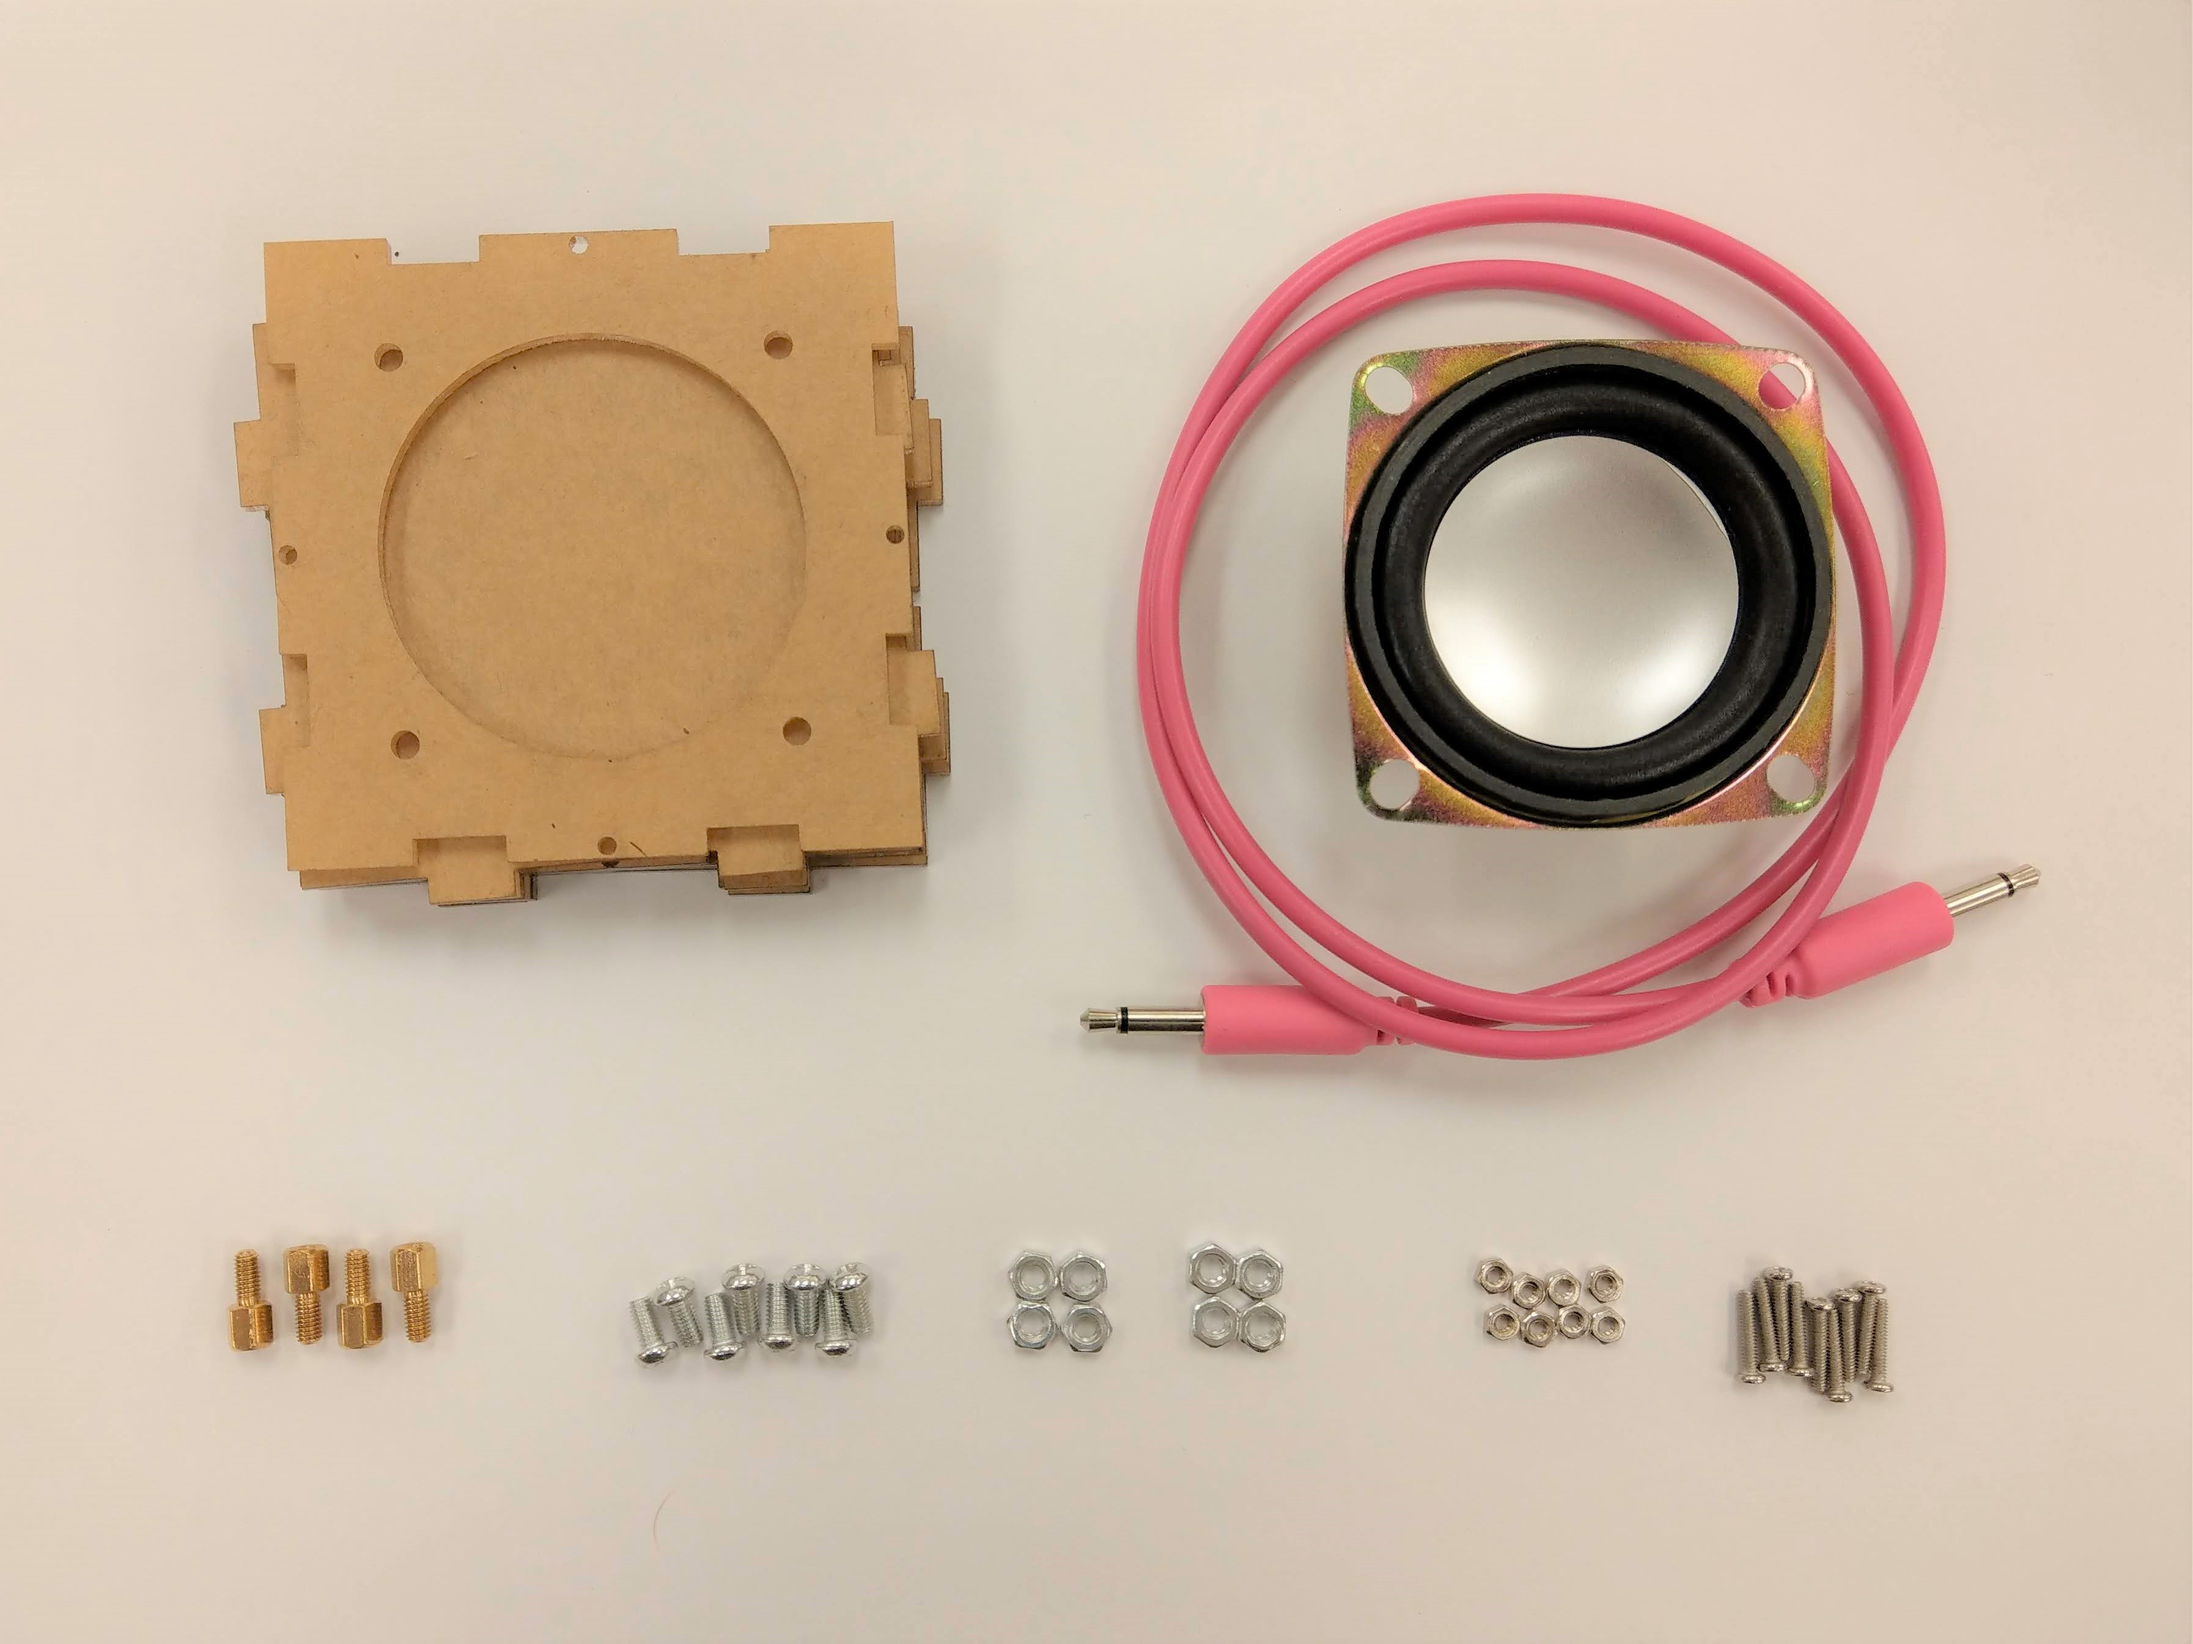
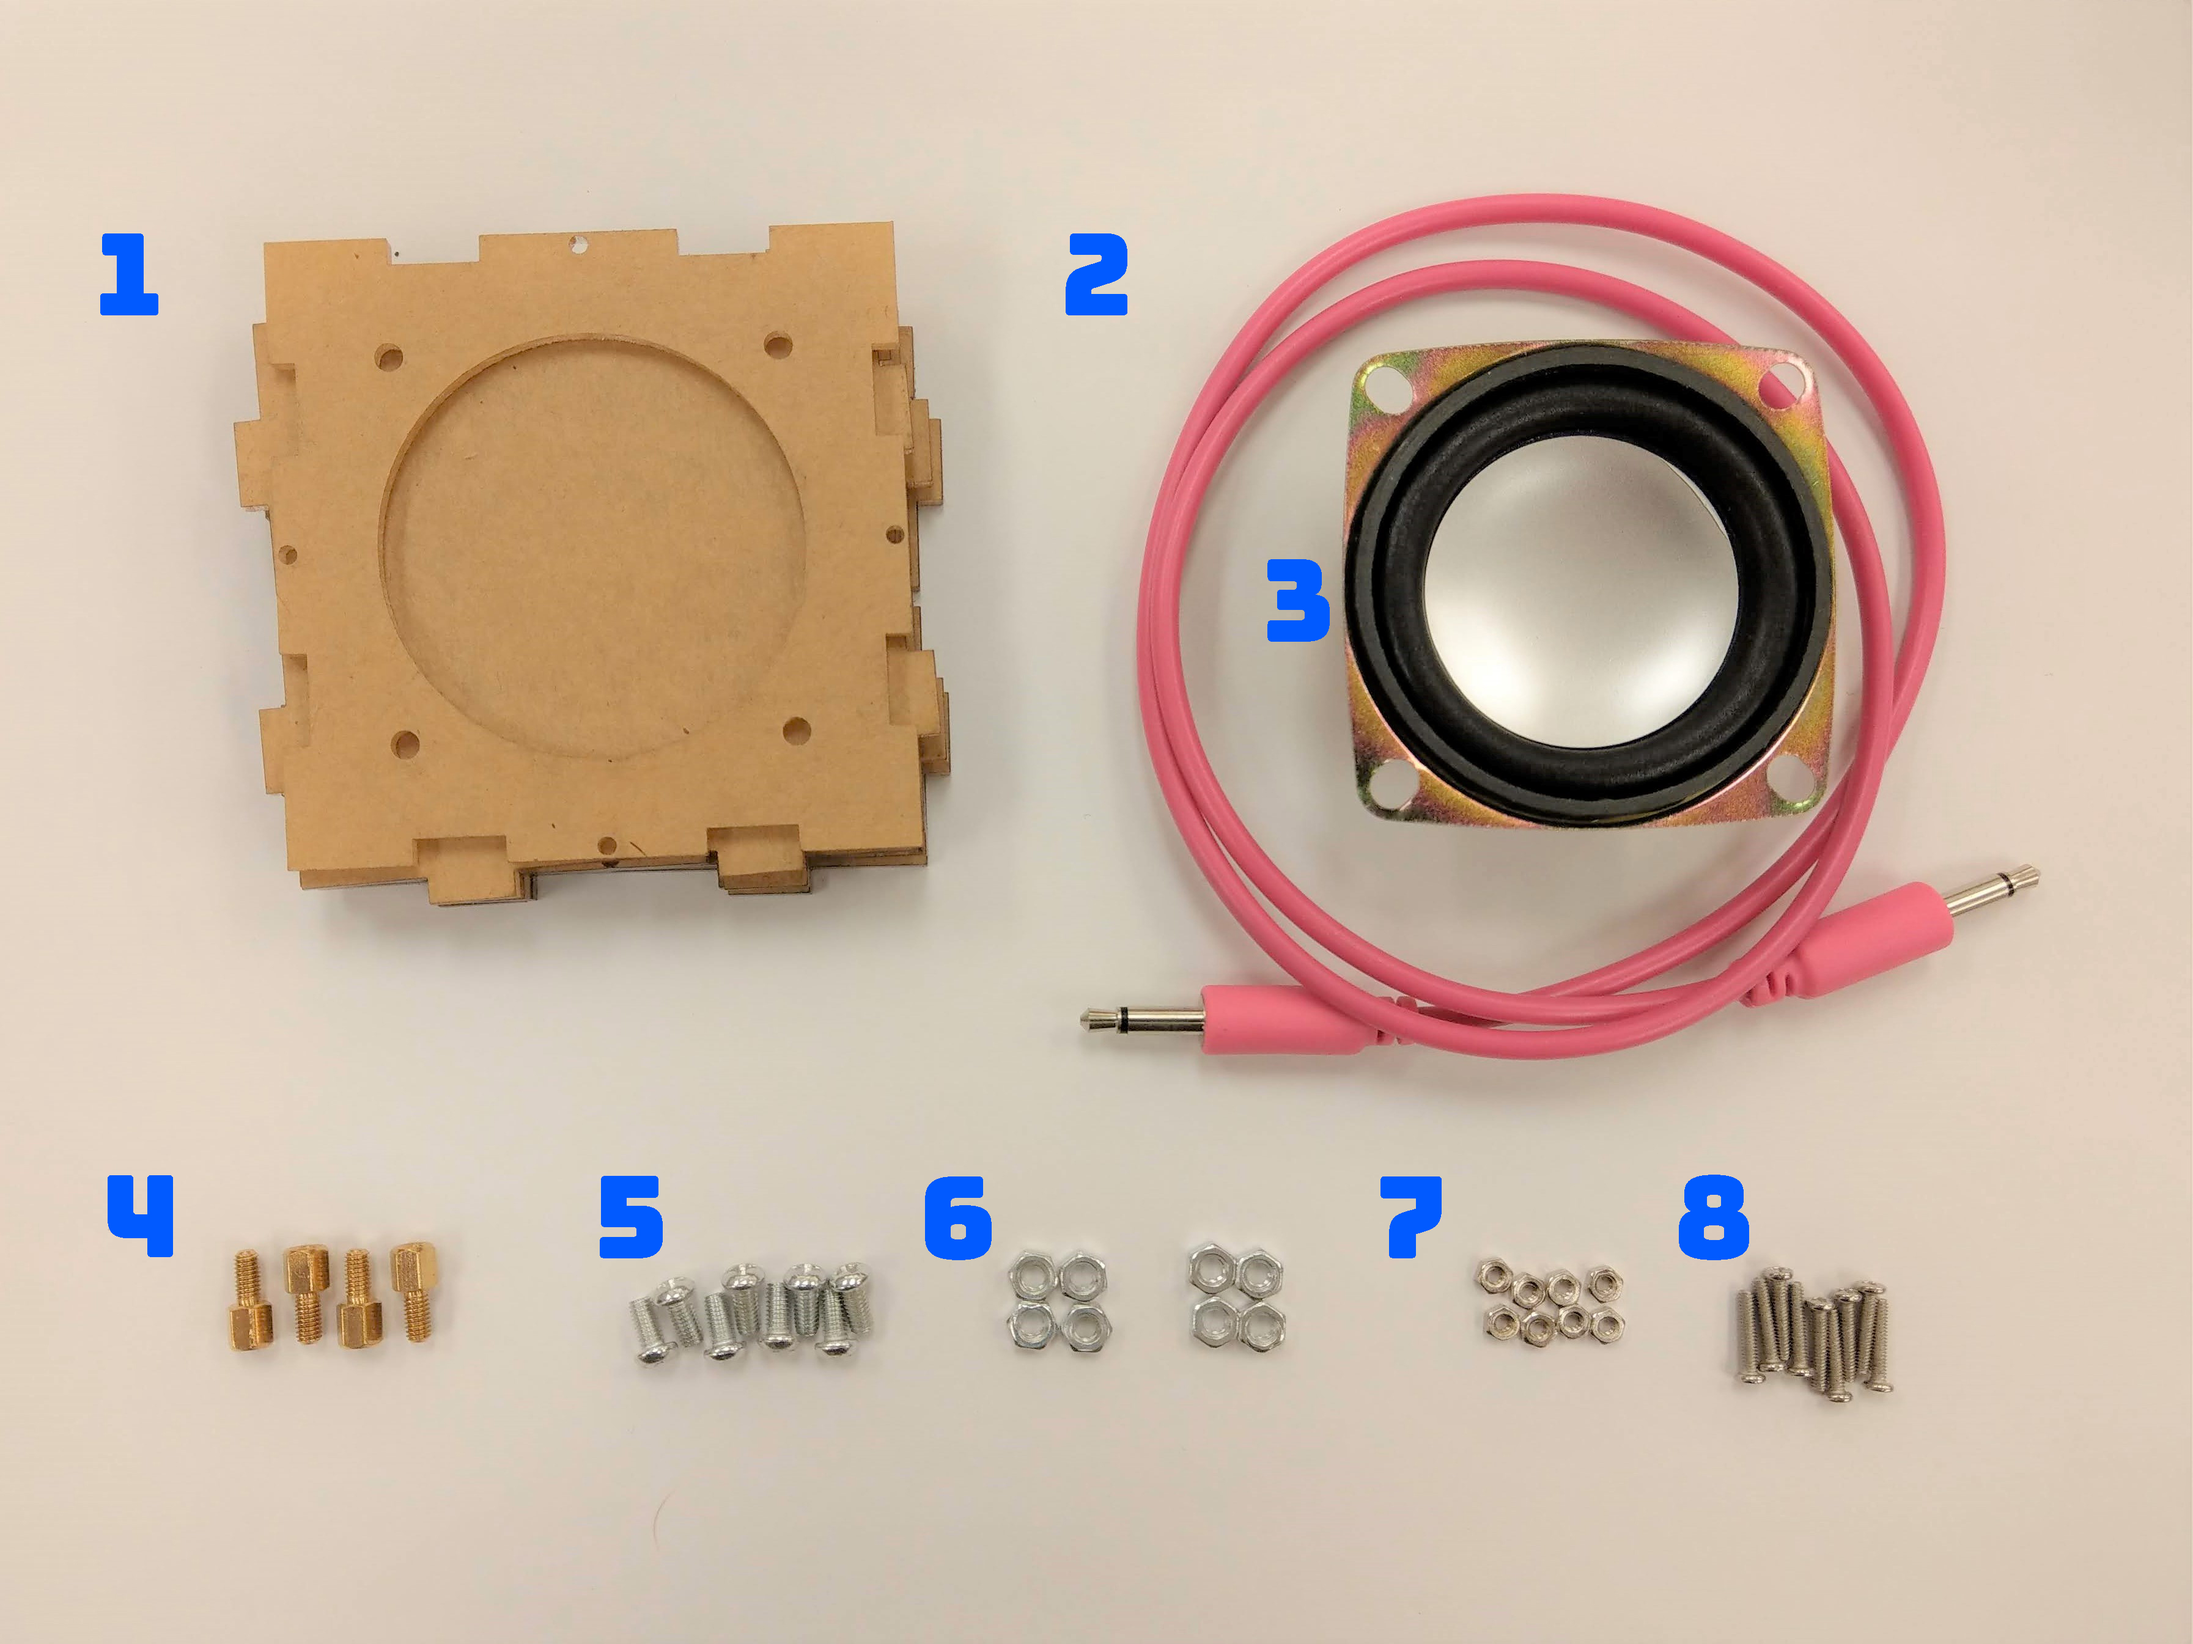
added labels to images

diff --git a/Solder Workshop/Solder 201/README.md b/Solder Workshop/Solder 201/README.md
@@ -1,0 +1,20 @@
+# Solder 201 Workshop Build
+
+## Overview
+
+The Solder 201 Workshop builds on our previous 101 Workshop where we solderd our led badges. This workshop will introduce you to a number of electronic components such as resistors, variable resistors, capacitors, leds and intergrated cricuits. We will build up our PCBs one component at a time. 
+
+## Parts
+
+The parts bellow are broken up in two sections, components and hardware. 
+
+### Components
+
+![](https://github.com/krum04/Goode-Hack-Lab/blob/main/Solder%20Workshop/Solder%20201/Images/Components.jpg?raw=true)
+
+Working from left to right:
+
+* PCB
+* 10k Ohm Reistors
+* 22k Ohm Resistors
+* 
